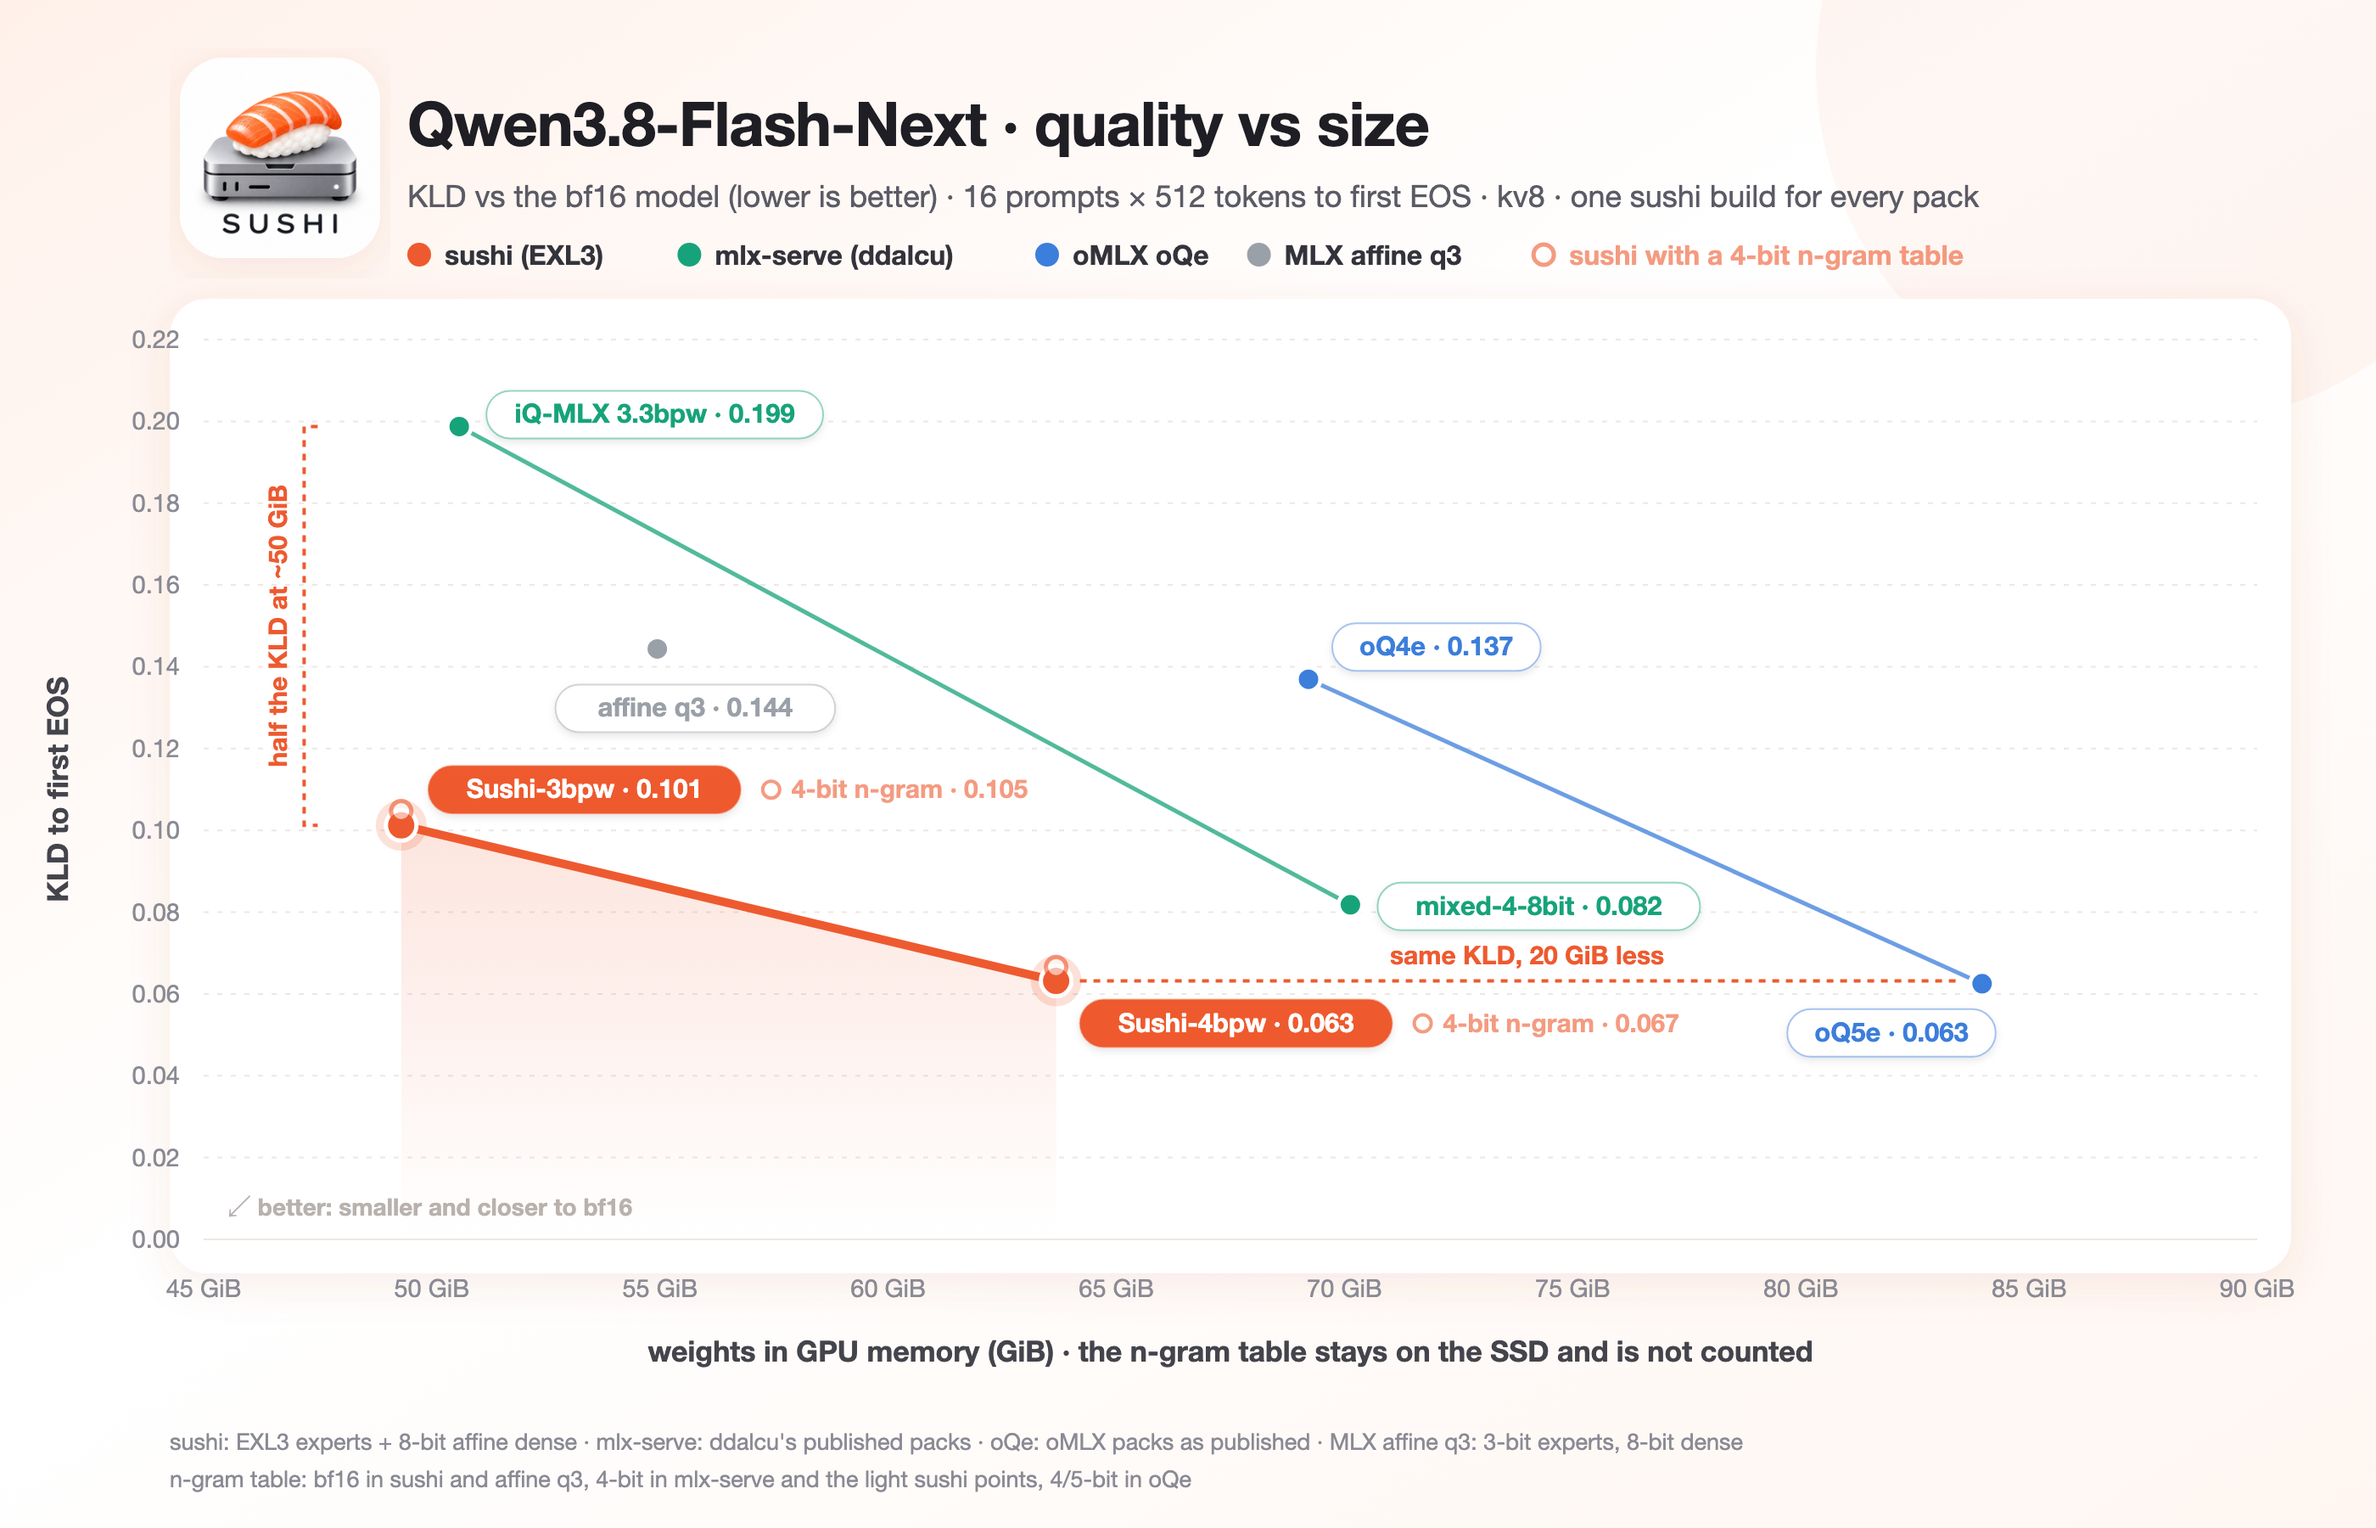
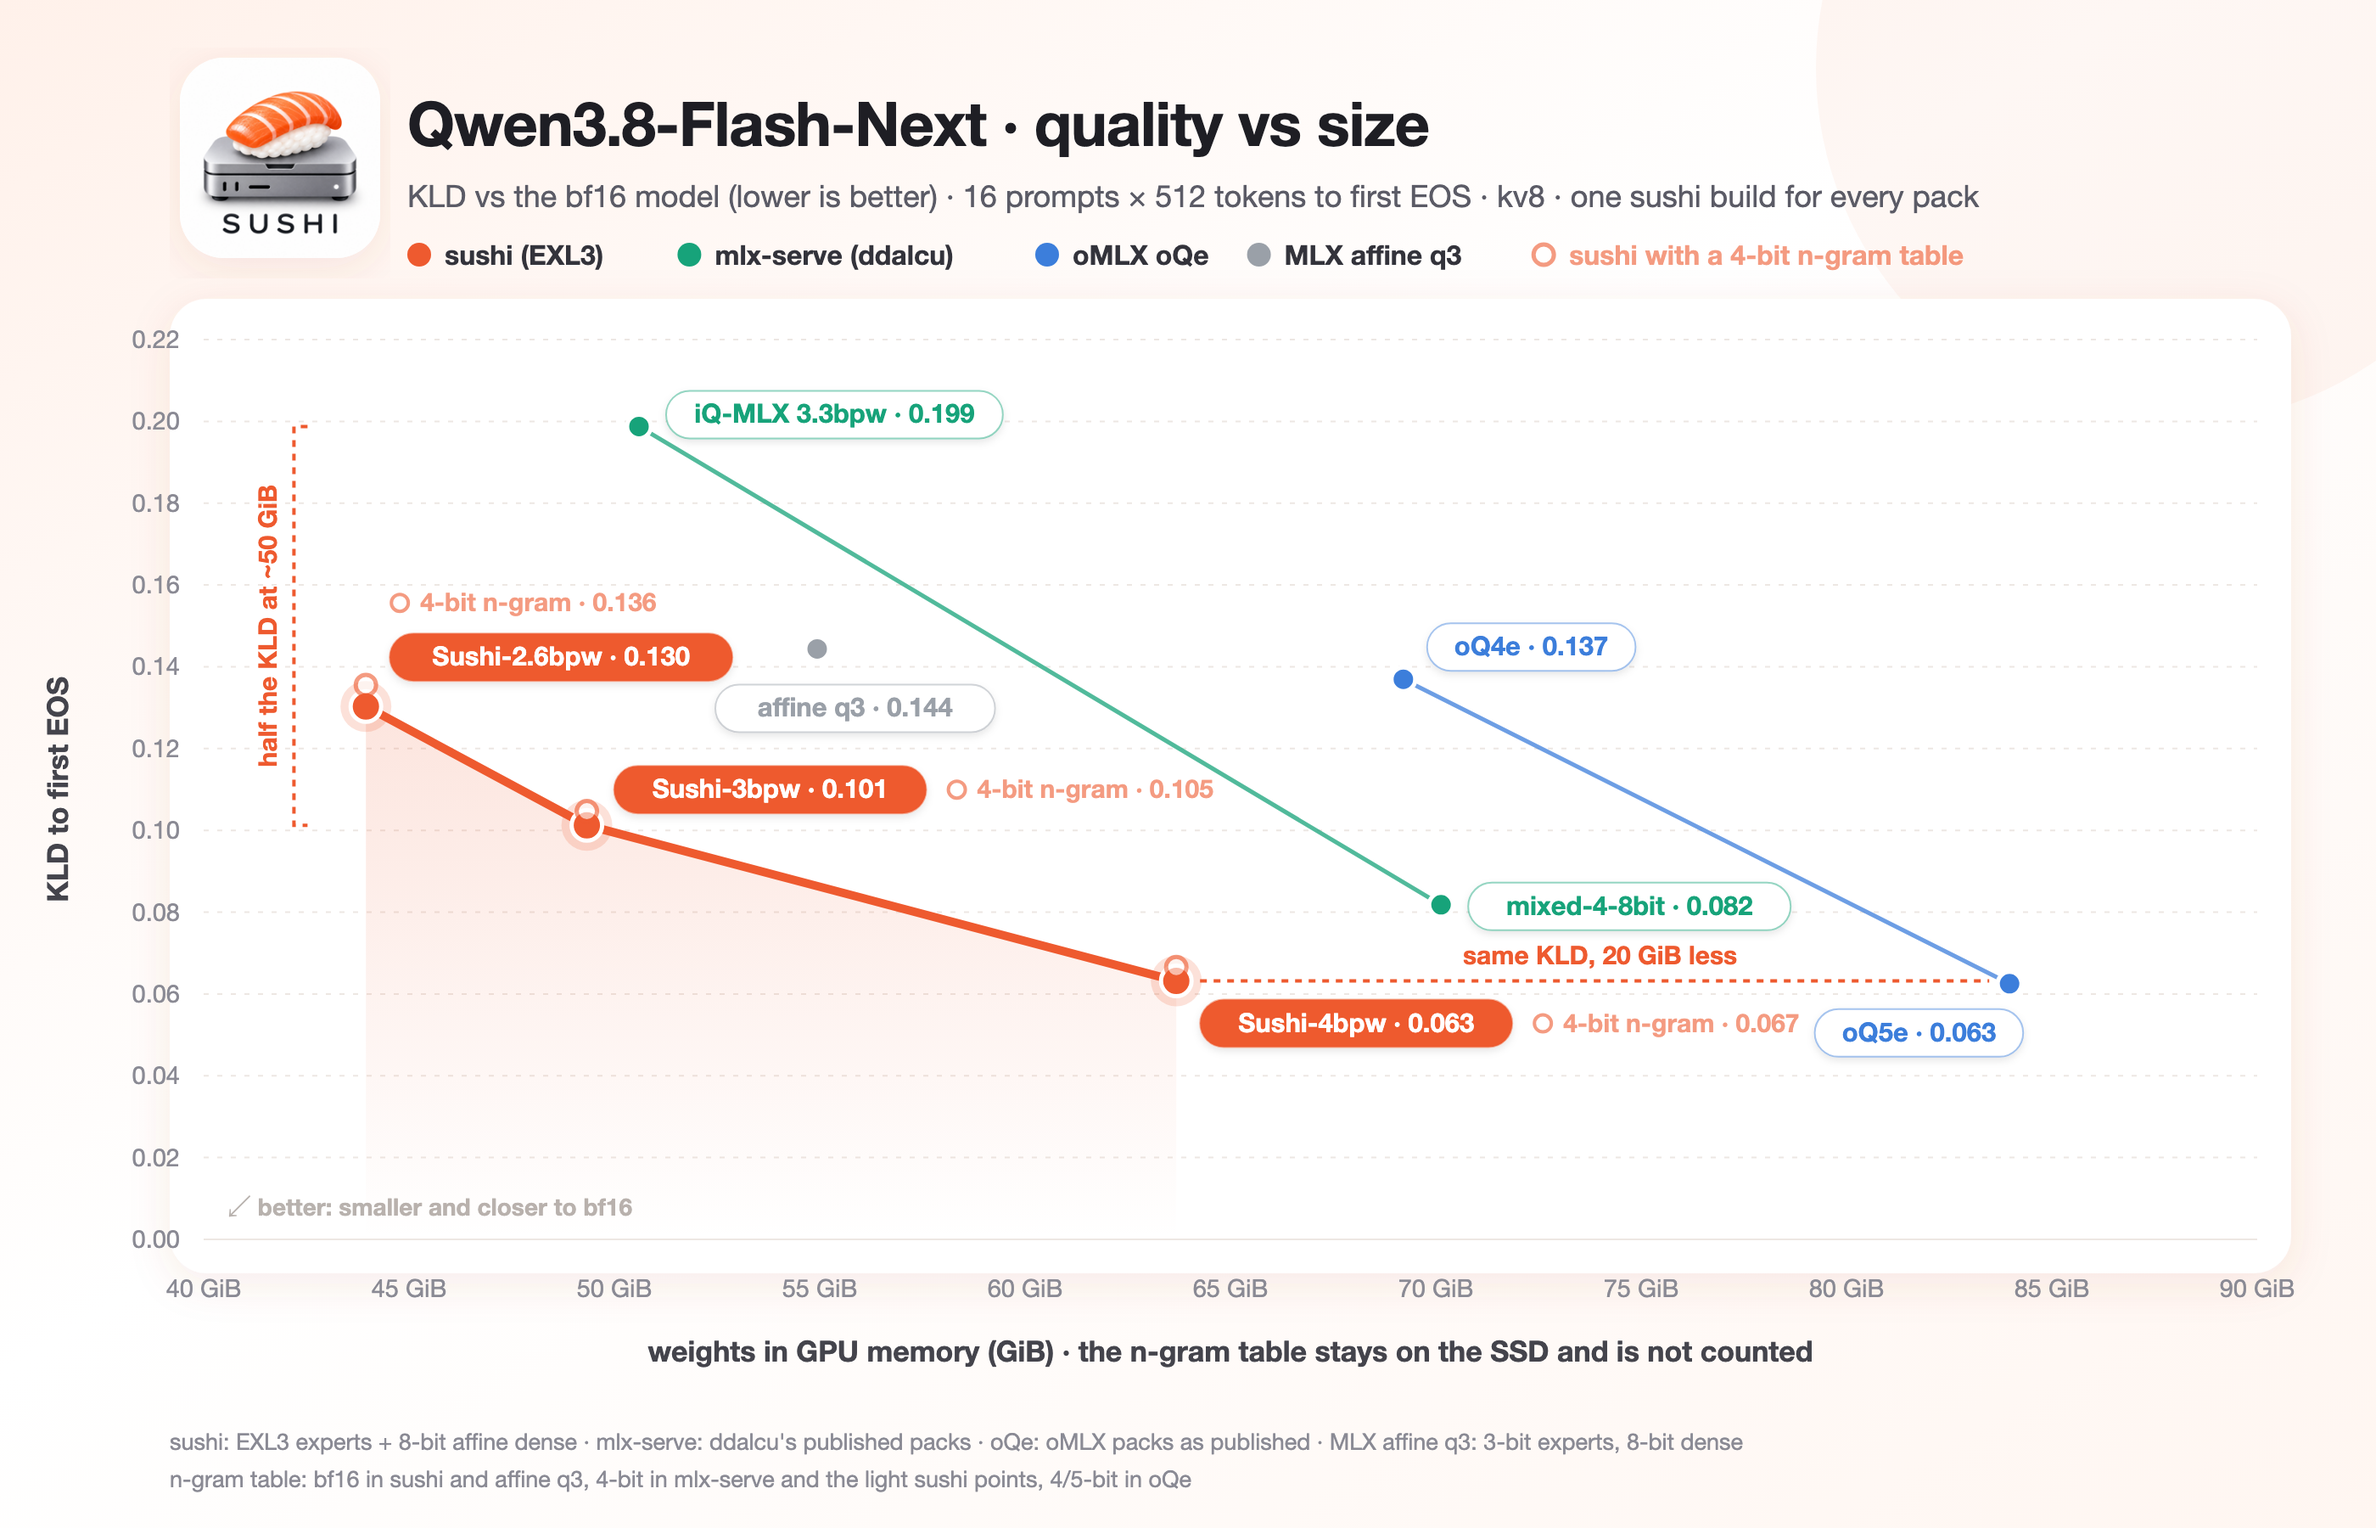
KLD chart adds Sushi-2.6bpw at kv8
Measured on ad5e6be8 with the published method (16x512, kv8, mlx-serve-bf16-16x512-raw
teacher): 0.1303 with the bf16 n-gram table on the sushi line, 0.1355 with the shipped 4-bit
table as its ring. Sushi-3bpw reproduces its charted 0.10123 and 0.1047 on the same build.

diff --git a/docs/quality-kld.md b/docs/quality-kld.md
@@ -110,6 +110,8 @@ n-gram table. Sizes are GiB of the weight files the engine loads (the Sushi pack
 | mlx-serve iQ-MLX 3.3bpw (ddalcu; imatrix-weighted affine) | 50.60 | 0.1987 | 86.28% |
 | Sushi-3bpw with mixed-4-8bit's 4-bit g32 n-gram table (the published Sushi-3bpw) | 49.33 | 0.1047 | 90.34% |
 | Sushi-4bpw with the same 4-bit g32 table | 63.68 | 0.0666 | 92.35% |
+| Sushi-2.6bpw (binary ad5e6be8, 2026-09-27; Sushi-3bpw's 0.10123 and 0.1047 reproduce on it bit for bit) | 43.95 | 0.1303 | 89.33% |
+| Sushi-2.6bpw with the 4-bit g32 table (the published Sushi-2.6bpw) | 43.95 | 0.1355 | 89.08% |
 | MCG K2 w15, pin pass 64 (Sushi-3bpw dense) | 36.0 active | 0.2244 | 85.42% |
 
 Release 1.0.4 check: `ad4a3ce0` plus the context-bill change, ReleaseFast binary SHA-256

diff --git a/README.md b/README.md
@@ -122,8 +122,8 @@ Leave room for the hot prefix cache (`--prefix-cache-mem`) and the prefill buffe
 <p align="center"><img src="docs/assets/kld-chart.png" alt="KLD vs size" width="100%"></p>
 
 KLD against the bf16 model: 16 prompts x 512 tokens scored to the first EOS, kv8, every pack run by the same sushi
-build. The light rings are the sushi packs with a 4-bit n-gram table (Sushi-3bpw ships that table; either table works
-with either pack). Numbers: [docs/quality-kld.md](docs/quality-kld.md).
+build. The light rings are the sushi packs with a 4-bit n-gram table (Sushi-2.6bpw and Sushi-3bpw ship that table;
+either table works with either pack). Numbers: [docs/quality-kld.md](docs/quality-kld.md).
 
 ## Speed
 
